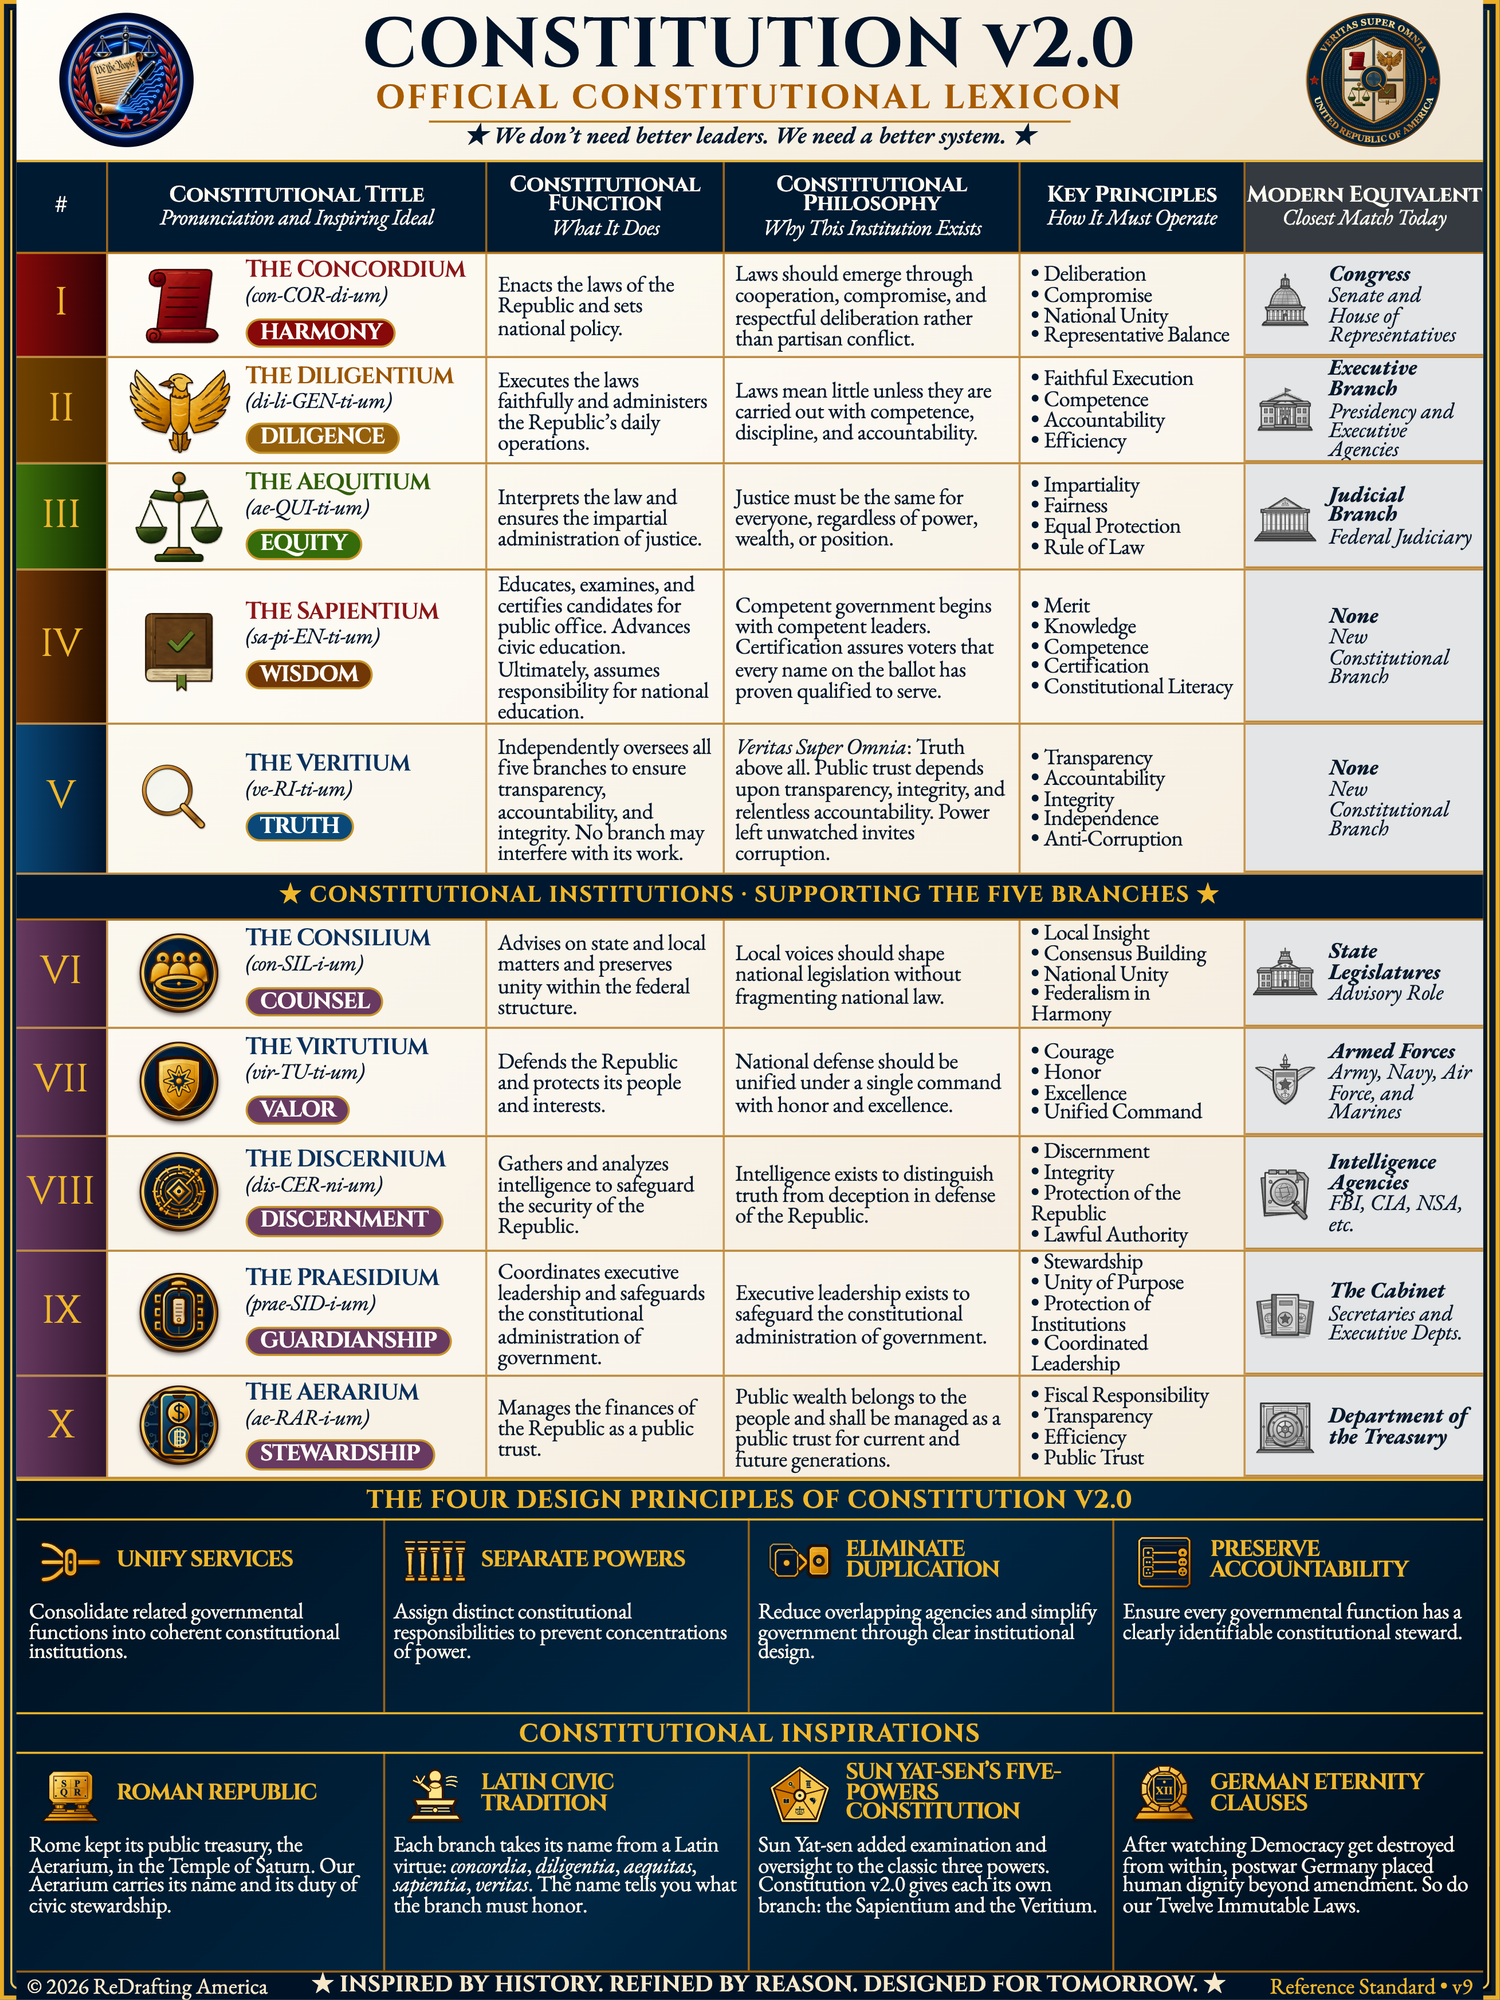
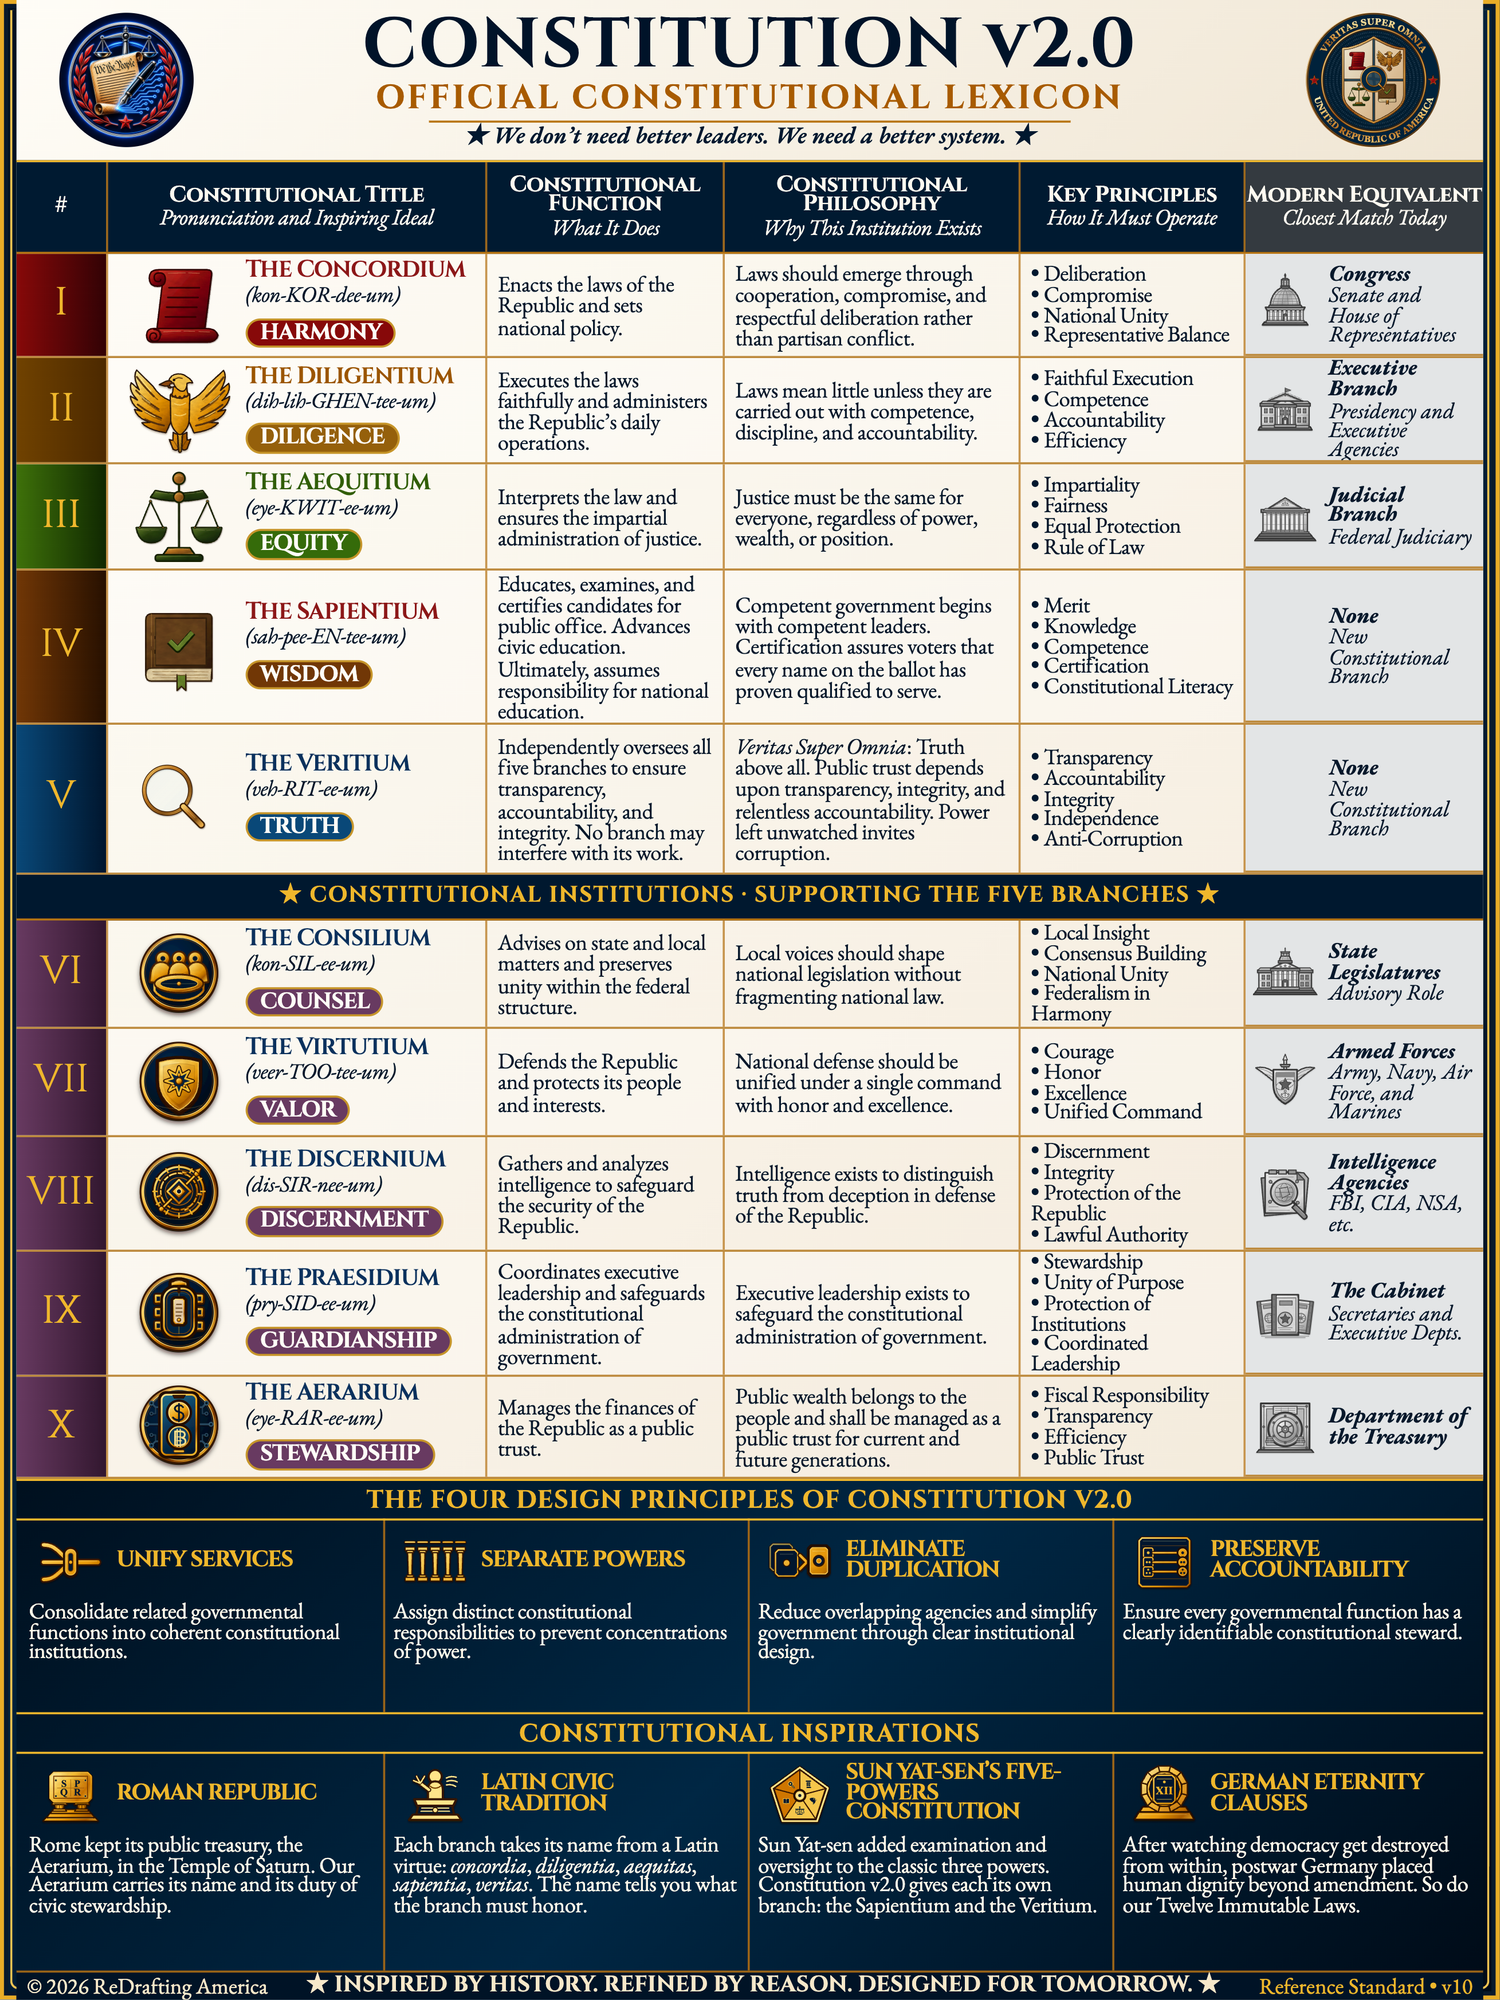
Publish v10 Lexicon and complete graphic accessibility

diff --git a/assets/documents/RDA-GRA-019_official-constitutional-lexicon-letter-portrait-accessible-companion-v10.html b/assets/documents/RDA-GRA-019_official-constitutional-lexicon-letter-portrait-accessible-companion-v10.html
@@ -1,0 +1,1 @@
+<!doctype html><html lang="en"><head><meta charset="utf-8"><meta name="viewport" content="width=device-width,initial-scale=1"><meta name="author" content="ReDrafting America"><meta name="description" content="Accessible text companion to the Constitution v2.0 Official Constitutional Lexicon portrait infographic."><title>Accessible Companion — Constitution v2.0 Official Constitutional Lexicon</title><style>body{max-width:90rem;margin:auto;padding:2rem;font:1.05rem/1.5 Georgia,serif;color:#07182b;background:#fffdf7}h1,h2,h3{font-family:Georgia,serif}table{width:100%;border-collapse:collapse}caption{font-weight:700;text-align:left;margin:.5rem 0}th,td{border:1px solid #6b5b43;padding:.55rem;vertical-align:top;text-align:left}thead th{background:#00182f;color:#fff}tbody th{min-width:12rem}ul{margin:0;padding-left:1.2rem}.notice{padding:1rem;border-left:.4rem solid #b87513;background:#f7f0e2}@media(max-width:60rem){table,thead,tbody,tr,th,td{display:block}thead{position:absolute;left:-10000px}tr{margin:0 0 1rem;border:2px solid #6b5b43}th,td{border:0;border-bottom:1px solid #bbb}td:before{display:block;font-weight:700;color:#31546b}td:nth-child(1):before{content:'Roman numeral'}td:nth-child(3):before{content:'Constitutional function'}td:nth-child(4):before{content:'Constitutional philosophy'}td:nth-child(5):before{content:'Key principles'}td:nth-child(6):before{content:'Modern equivalent'}}</style></head><body><header><h1>Constitution v2.0</h1><p><strong>Official Constitutional Lexicon</strong></p><p><em>We don’t need better leaders. We need a better system.</em></p></header><main><p class="notice"><strong>Purpose:</strong> This page is the accessible text equivalent of the Letter portrait infographic. It preserves the complete reading order and wording without depending on color, spatial position, or icon recognition.</p><section aria-labelledby="comparison-heading"><h2 id="comparison-heading">Constitutional institutions comparison</h2><table><caption>Ten institutions proposed for Constitution v2.0</caption><thead><tr><th scope="col">Roman numeral</th><th scope="col">Constitutional title, pronunciation, and inspiring ideal</th><th scope="col">Constitutional function</th><th scope="col">Constitutional philosophy</th><th scope="col">Key principles</th><th scope="col">Modern equivalent</th></tr></thead><tbody><tr><td>I</td><th scope="row">The Concordium<br><span>(kon-KOR-dee-um)</span><br><strong>Ideal: Harmony</strong></th><td>Enacts the laws of the Republic and sets national policy.</td><td>Laws should emerge through cooperation, compromise, and respectful deliberation rather than partisan conflict.</td><td><ul><li>Deliberation</li><li>Compromise</li><li>National Unity</li><li>Representative Balance</li></ul></td><td>Congress<br><span>Senate and House of Representatives</span></td></tr><tr><td>II</td><th scope="row">The Diligentium<br><span>(dih-lih-GHEN-tee-um)</span><br><strong>Ideal: Diligence</strong></th><td>Executes the laws faithfully and administers the Republic’s daily operations.</td><td>Laws mean little unless they are carried out with competence, discipline, and accountability.</td><td><ul><li>Faithful Execution</li><li>Competence</li><li>Accountability</li><li>Efficiency</li></ul></td><td>Executive Branch<br><span>Presidency and Executive Agencies</span></td></tr><tr><td>III</td><th scope="row">The Aequitium<br><span>(eye-KWIT-ee-um)</span><br><strong>Ideal: Equity</strong></th><td>Interprets the law and ensures the impartial administration of justice.</td><td>Justice must be the same for everyone, regardless of power, wealth, or position.</td><td><ul><li>Impartiality</li><li>Fairness</li><li>Equal Protection</li><li>Rule of Law</li></ul></td><td>Judicial Branch<br><span>Federal Judiciary</span></td></tr><tr><td>IV</td><th scope="row">The Sapientium<br><span>(sah-pee-EN-tee-um)</span><br><strong>Ideal: Wisdom</strong></th><td>Educates, examines, and certifies candidates for public office. Advances civic education. Ultimately, assumes responsibility for national education.</td><td>Competent government begins with competent leaders. Certification assures voters that every name on the ballot has proven qualified to serve.</td><td><ul><li>Merit</li><li>Knowledge</li><li>Competence</li><li>Certification</li><li>Constitutional Literacy</li></ul></td><td>None<br><span>New Constitutional Branch</span></td></tr><tr><td>V</td><th scope="row">The Veritium<br><span>(veh-RIT-ee-um)</span><br><strong>Ideal: Truth</strong></th><td>Independently oversees all five branches to ensure transparency, accountability, and integrity. No branch may interfere with its work.</td><td>Veritas Super Omnia: Truth above all. Public trust depends upon transparency, integrity, and relentless accountability. Power left unwatched invites corruption.</td><td><ul><li>Transparency</li><li>Accountability</li><li>Integrity</li><li>Independence</li><li>Anti-Corruption</li></ul></td><td>None<br><span>New Constitutional Branch</span></td></tr><tr><td>VI</td><th scope="row">The Consilium<br><span>(kon-SIL-ee-um)</span><br><strong>Ideal: Counsel</strong></th><td>Advises on state and local matters and preserves unity within the federal structure.</td><td>Local voices should shape national legislation without fragmenting national law.</td><td><ul><li>Local Insight</li><li>Consensus Building</li><li>National Unity</li><li>Federalism in Harmony</li></ul></td><td>State Legislatures<br><span>Advisory Role</span></td></tr><tr><td>VII</td><th scope="row">The Virtutium<br><span>(veer-TOO-tee-um)</span><br><strong>Ideal: Valor</strong></th><td>Defends the Republic and protects its people and interests.</td><td>National defense should be unified under a single command with honor and excellence.</td><td><ul><li>Courage</li><li>Honor</li><li>Excellence</li><li>Unified Command</li></ul></td><td>Armed Forces<br><span>Army, Navy, Air Force, and Marines</span></td></tr><tr><td>VIII</td><th scope="row">The Discernium<br><span>(dis-SIR-nee-um)</span><br><strong>Ideal: Discernment</strong></th><td>Gathers and analyzes intelligence to safeguard the security of the Republic.</td><td>Intelligence exists to distinguish truth from deception in defense of the Republic.</td><td><ul><li>Discernment</li><li>Integrity</li><li>Protection of the Republic</li><li>Lawful Authority</li></ul></td><td>Intelligence Agencies<br><span>FBI, CIA, NSA, etc.</span></td></tr><tr><td>IX</td><th scope="row">The Praesidium<br><span>(pry-SID-ee-um)</span><br><strong>Ideal: Guardianship</strong></th><td>Coordinates executive leadership and safeguards the constitutional administration of government.</td><td>Executive leadership exists to safeguard the constitutional administration of government.</td><td><ul><li>Stewardship</li><li>Unity of Purpose</li><li>Protection of Institutions</li><li>Coordinated Leadership</li></ul></td><td>The Cabinet<br><span>Secretaries and Executive Depts.</span></td></tr><tr><td>X</td><th scope="row">The Aerarium<br><span>(eye-RAR-ee-um)</span><br><strong>Ideal: Stewardship</strong></th><td>Manages the finances of the Republic as a public trust.</td><td>Public wealth belongs to the people and shall be managed as a public trust for current and future generations.</td><td><ul><li>Fiscal Responsibility</li><li>Transparency</li><li>Efficiency</li><li>Public Trust</li></ul></td><td>Department of the Treasury</td></tr></tbody></table></section><section><h2>The Four Design Principles of Constitution v2.0</h2><article><h3>Unify Services</h3><p>Consolidate related governmental functions into coherent constitutional institutions.</p></article><article><h3>Separate Powers</h3><p>Assign distinct constitutional responsibilities to prevent concentrations of power.</p></article><article><h3>Eliminate Duplication</h3><p>Reduce overlapping agencies and simplify government through clear institutional design.</p></article><article><h3>Preserve Accountability</h3><p>Ensure every governmental function has a clearly identifiable constitutional steward.</p></article></section><section><h2>Constitutional Inspirations</h2><article><h3>Roman Republic</h3><p>Rome kept its public treasury, the Aerarium, in the Temple of Saturn. Our Aerarium carries its name and its duty of civic stewardship.</p></article><article><h3>Latin Civic Tradition</h3><p>Each branch takes its name from a Latin virtue: concordia, diligentia, aequitas, sapientia, veritas. The name tells you what the branch must honor.</p></article><article><h3>Sun Yat-sen’s Five-Powers Constitution</h3><p>Sun Yat-sen added examination and oversight to the classic three powers. Constitution v2.0 gives each its own branch: the Sapientium and the Veritium.</p></article><article><h3>German Eternity Clauses</h3><p>After watching democracy get destroyed from within, postwar Germany placed human dignity beyond amendment. So do our Twelve Immutable Laws.</p></article></section></main><footer><p>★ INSPIRED BY HISTORY. REFINED BY REASON. DESIGNED FOR TOMORROW. ★</p><p>© 2026 ReDrafting America · Constitution v2.0 Reference Standard • v10</p></footer></body></html>

diff --git a/index.html b/index.html
@@ -359,6 +359,7 @@
     margin: 0 auto;
     object-fit: contain;
   }
+  #lexicon-dialog img { max-height: calc(96vh - 10.5rem); }
   .seal-dialog-close {
     position: absolute;
     top: 0.6rem;
@@ -566,7 +567,7 @@
       <div class="split reverse lexicon-feature">
         <div class="preview-card">
           <button class="lexicon-open" id="lexicon-open" type="button" aria-haspopup="dialog" aria-controls="lexicon-dialog" aria-label="Enlarge the Constitutional Lexicon" aria-describedby="lexicon-description">
-            <img src="assets/images/constitution-v2-lexicon-portrait.png?v=20260926-1" width="1500" height="2000" alt="Portrait edition of the Redrafting America Constitution v2.0 Official Constitutional Lexicon, listing ten constitutional institutions with their functions and principles" loading="lazy" />
+            <img src="assets/images/constitution-v2-lexicon-portrait.png?v=20260926-2" width="1500" height="2000" alt="Constitution v2.0 Official Constitutional Lexicon comparing ten proposed constitutional institutions, their functions, ideals, philosophies, principles, and modern equivalents, followed by four design principles and four historical inspirations." loading="lazy" />
           </button>
         </div>
         <div>
@@ -586,8 +587,10 @@
 
   <dialog class="seal-dialog" id="lexicon-dialog" aria-label="Constitutional Lexicon full-size viewer" aria-describedby="lexicon-description">
     <button class="seal-dialog-close" id="lexicon-dialog-close" type="button" aria-label="Close full-size Constitutional Lexicon">&times;</button>
-    <img src="assets/images/constitution-v2-lexicon-portrait-4k.png?v=20260926-1" width="3000" height="4000" alt="4K portrait edition of the Redrafting America Constitution v2.0 Official Constitutional Lexicon" />
-    <a class="seal-dialog-original" href="assets/images/constitution-v2-lexicon-portrait-4k.png?v=20260926-1" target="_blank" rel="noopener">Open 3000-by-4000 image</a>
+    <img src="assets/images/constitution-v2-lexicon-portrait-4k.png?v=20260926-2" width="3000" height="4000" alt="Constitution v2.0 Official Constitutional Lexicon comparing ten proposed constitutional institutions, their functions, ideals, philosophies, principles, and modern equivalents, followed by four design principles and four historical inspirations." />
+    <a class="seal-dialog-original" href="assets/images/constitution-v2-lexicon-portrait-4k.png?v=20260926-2" target="_blank" rel="noopener">Open 3000-by-4000 image</a>
+    <a class="seal-dialog-original" href="assets/documents/RDA-GRA-019_official-constitutional-lexicon-letter-portrait-accessible-companion-v10.html">Open accessible HTML version</a>
+    <a class="seal-dialog-original" href="assets/documents/RDA-GRA-019_official-constitutional-lexicon-letter-portrait-transcript-v10.txt">Open plain-text transcript</a>
   </dialog>
 
   <!-- ================= CITIZEN PORTAL ================= -->

diff --git a/pages/about/mission.html b/pages/about/mission.html
@@ -430,7 +430,7 @@
   </div>
 
   <div class="doc-hero">
-    <button class="seal-open" id="seal-open" type="button" aria-haspopup="dialog" aria-controls="seal-dialog" aria-label="Enlarge the National Seal">
+    <button class="seal-open" id="seal-open" type="button" aria-haspopup="dialog" aria-controls="seal-dialog" aria-label="Enlarge the National Seal" aria-describedby="seal-description">
       <img class="crest" src="assets/images/seal.png?v=20260924-1" width="2000" height="2000" alt="Veritas Super Omnia national seal for the United Republic of America" />
     </button>
     <span class="seal-enlarge-label" aria-hidden="true">Select to view full size</span>
@@ -446,7 +446,9 @@
     </a>
   </div>
 
-  <dialog class="seal-dialog" id="seal-dialog" aria-label="National Seal full-size viewer">
+  <p class="diagram-description" id="seal-description">The National Seal of the United Republic of America is a circular navy-and-gold emblem. The outer ring reads “Veritas Super Omnia” and “United Republic of America.” At the center, a quartered shield contains a red constitutional scroll, a gold eagle, green scales of justice, and a brown book with a green checkmark, overlaid by a magnifying glass. Binary digits and red laurel branches surround the shield, and a circuit-board pattern fills the background.</p>
+
+  <dialog class="seal-dialog" id="seal-dialog" aria-label="National Seal full-size viewer" aria-describedby="seal-description">
     <button class="seal-dialog-close" id="seal-dialog-close" type="button" aria-label="Close full-size National Seal">&times;</button>
     <img src="assets/images/seal-4k.png?v=20260924-1" width="4000" height="4000" alt="4K Veritas Super Omnia national seal for the United Republic of America" />
     <a class="seal-dialog-original" href="assets/images/seal-4k.png?v=20260924-1" target="_blank" rel="noopener">Open 4000-by-4000 image</a>
@@ -722,6 +724,9 @@
       });
       dialog.addEventListener('click', function (event) {
         if (event.target === dialog) dialog.close();
+      });
+      dialog.addEventListener('close', function () {
+        openButton.focus();
       });
     })();
   </script>
